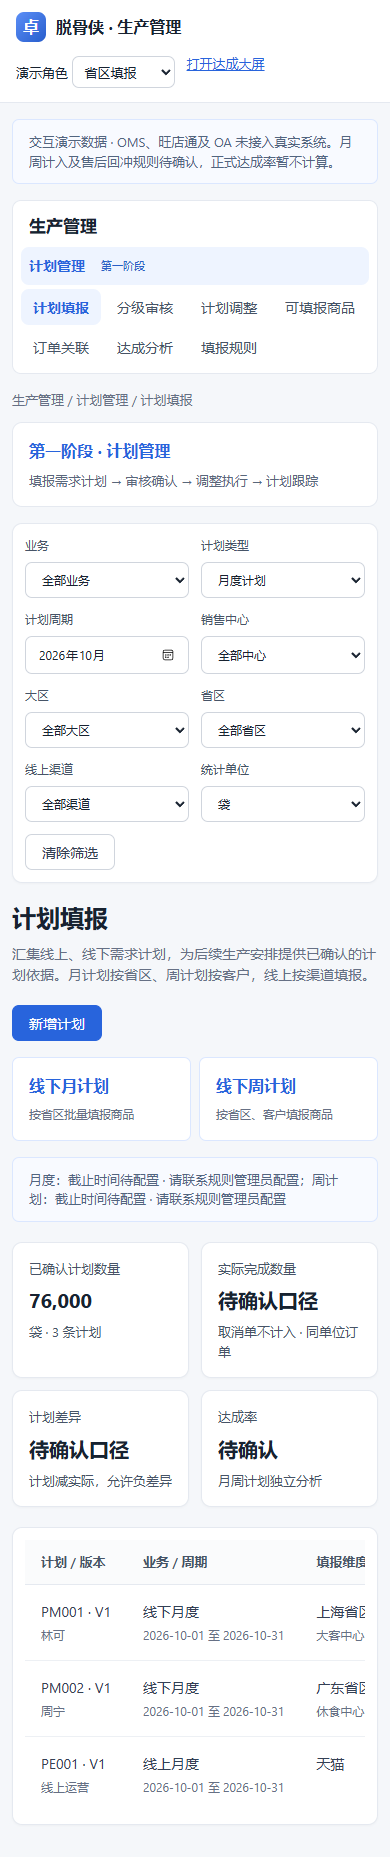
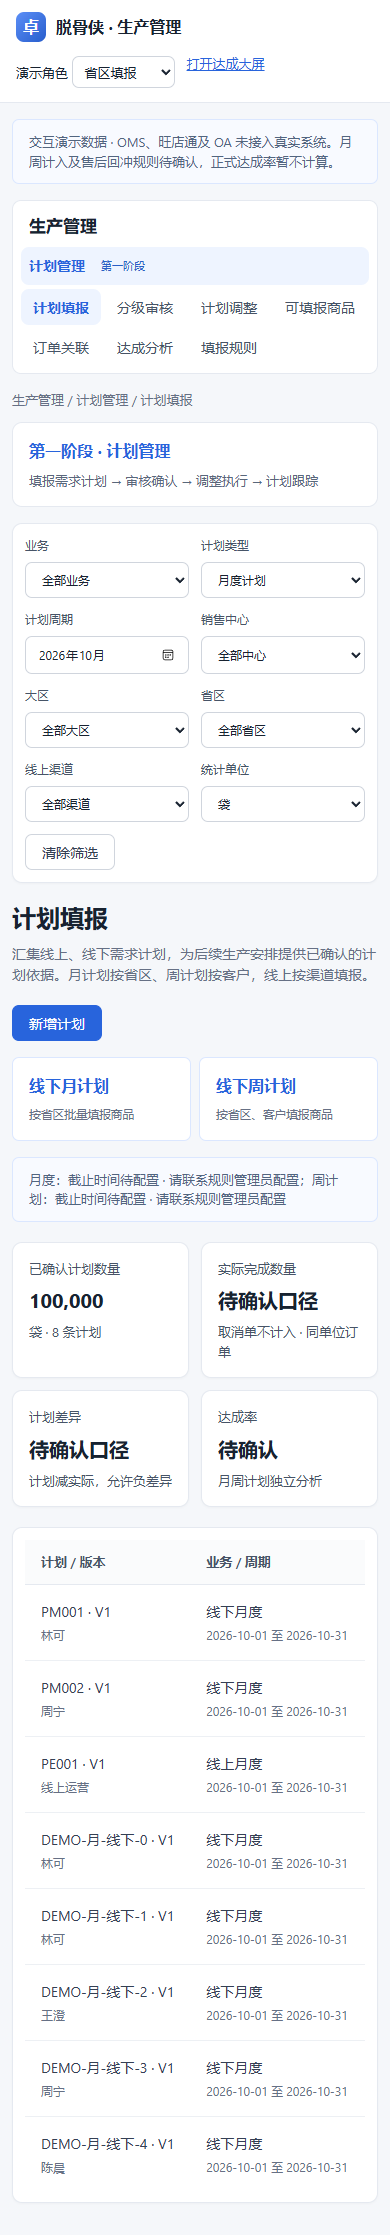
Auto sync 2026-10-12 10:51:33

diff --git a/09-设计与原型/销售计划管理/节点演示数据说明.md b/09-设计与原型/销售计划管理/节点演示数据说明.md
@@ -1,0 +1,11 @@
+# 节点演示数据
+
+月计划和周计划分别覆盖线下草稿、大区审核、中心审核、严总确认、已确认、驳回；线上覆盖草稿、丹总审核、已确认。另有归档案例。
+
+开始前调整使用下一个月的周期，分别停在大区、中心、严总、丹总节点；加急数量调整覆盖待审、通过、驳回。已通过示例保留V1与V2。
+
+确认计划附带演示OMS/旺店通订单，覆盖部分达成、全额达成、超额达成、退货和匹配异常场景。指标仍受原待确认口径控制，不自动批准正式统计规则。商品维护提供已停用商品和变更记录。
+
+DEMO编号均为虚构演示记录。首次读取时增量添加，不覆盖原记录；nodeDemoVersion防止重复添加和覆盖已操作案例。切换月周、周期、角色及计划调整页可查看相应节点。下一月开始前变更样例需将计划周期切到下一月。
+
+验收：所有线下节点均有案例，重复读取不重复新增、已有修改保留；节点样例29条计划（含原有5条）、7条调整，订单随确认计划生成。
